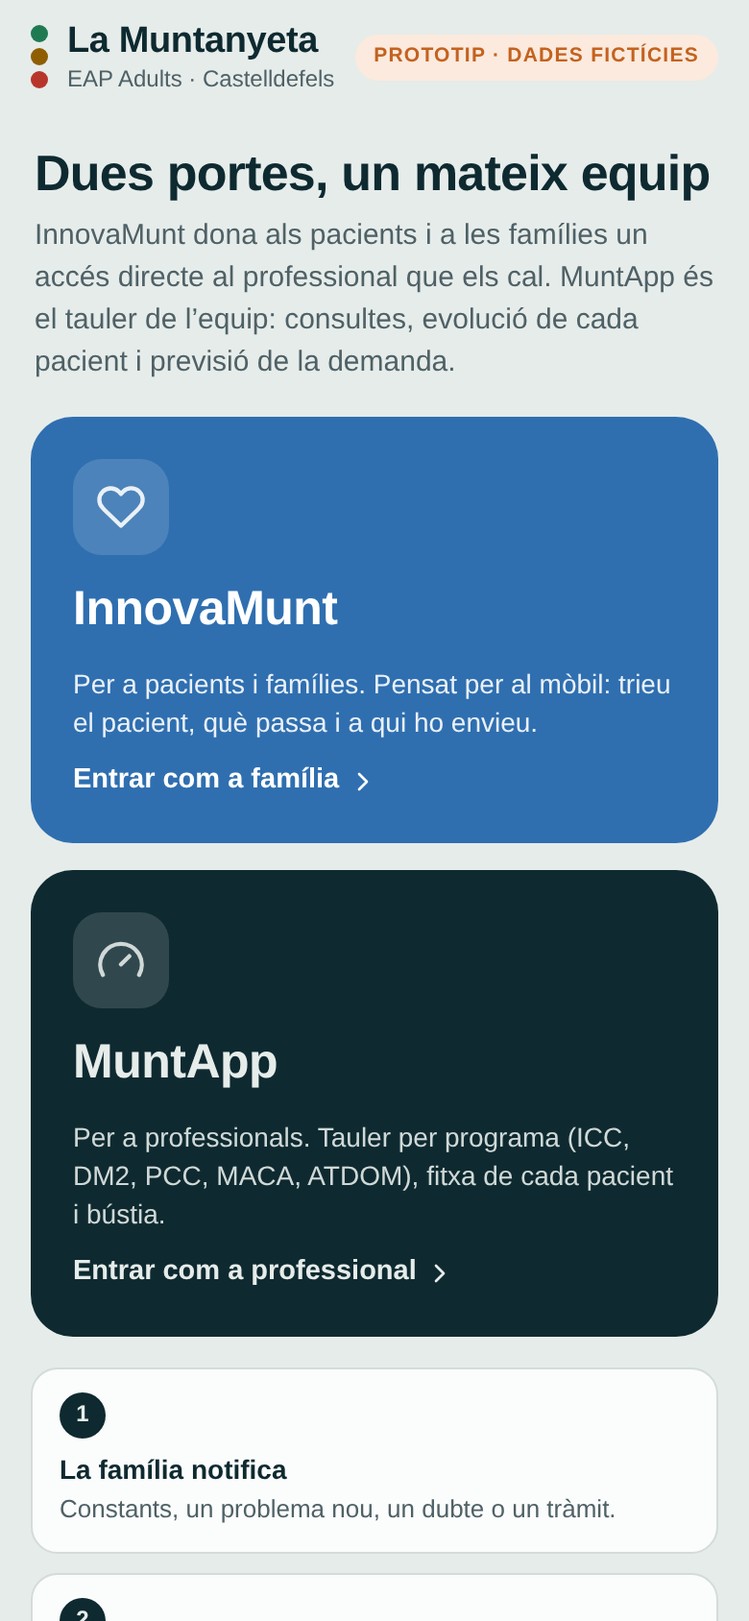
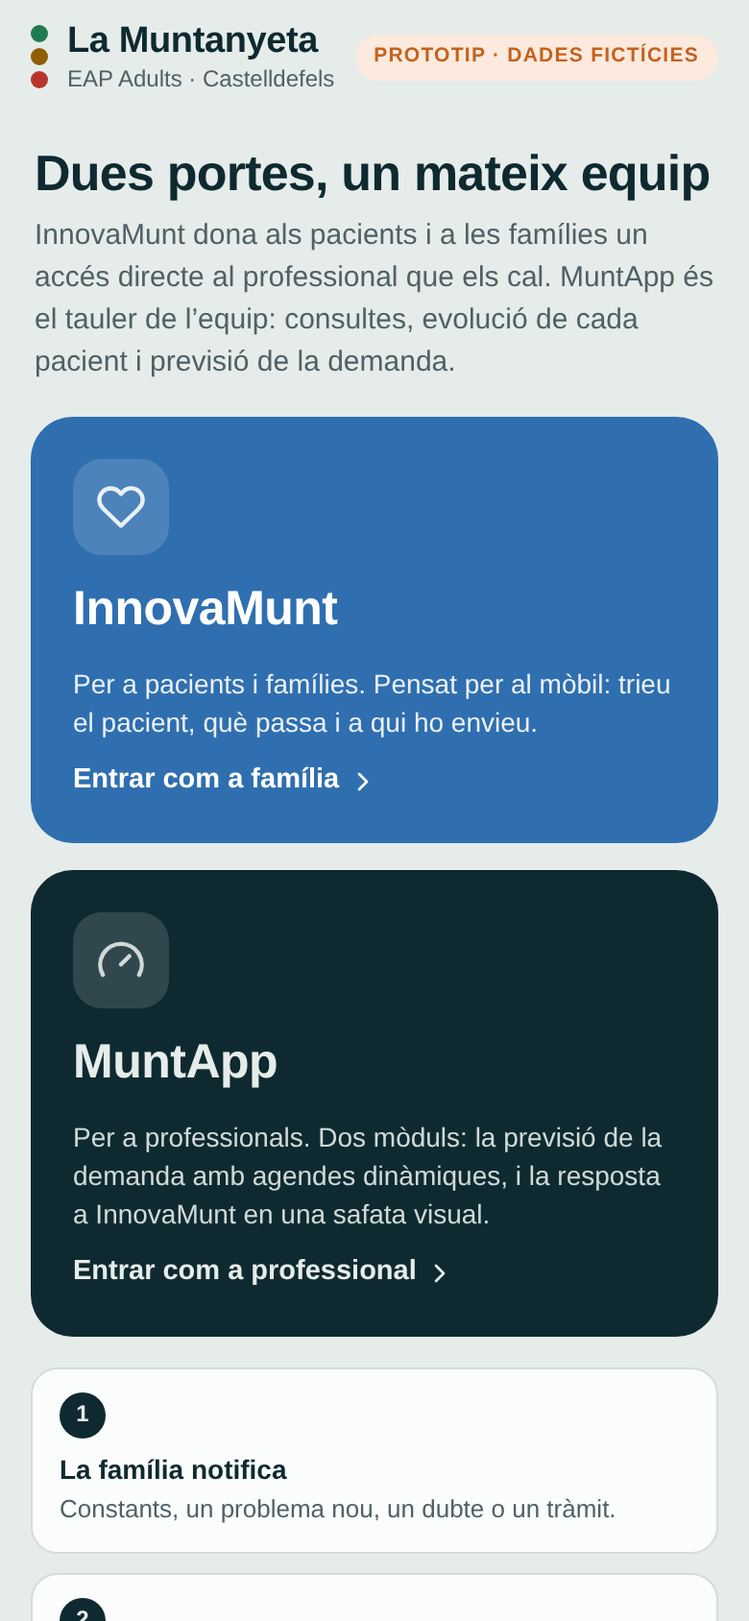
Add files via upload

Changed region(s): [[0.0923, 0.6777, 0.8923, 0.7701]]

diff --git a/index.html b/index.html
@@ -182,10 +182,10 @@ textarea{min-height:76px;resize:vertical}
 /* ===== MuntApp (responsive: phone ↔ desktop) ===== */
 .pro{display:grid;grid-template-columns:200px minmax(0,1fr);gap:18px;align-items:start}
 .pnav{position:sticky;top:12px;display:flex;flex-direction:column;gap:4px;background:var(--card);border:1px solid var(--line);border-radius:16px;padding:8px}
-.pnav button{display:flex;gap:10px;align-items:center;border:0;background:transparent;color:var(--muted);font-weight:600;font-size:14px;padding:10px 12px;border-radius:10px;text-align:left}
-.pnav button span{flex:1}
-.pnav button[aria-current="page"]{background:var(--ink);color:var(--bg)}
-.pnav button:hover:not([aria-current="page"]){background:var(--sunk);color:var(--ink)}
+.pnav>button{display:flex;gap:10px;align-items:center;border:0;background:transparent;color:var(--muted);font-weight:600;font-size:14px;padding:10px 12px;border-radius:10px;text-align:left}
+.pnav>button span{flex:1}
+.pnav>button[aria-current="page"]{background:var(--ink);color:var(--bg)}
+.pnav>button:hover:not([aria-current="page"]){background:var(--sunk);color:var(--ink)}
 .cnt{font-style:normal;font-size:11px;font-weight:700;background:var(--bad);color:#fff;border-radius:999px;padding:0 6px;line-height:18px;min-width:18px;text-align:center}
 .pmain{display:flex;flex-direction:column;gap:14px;min-width:0}
 .ptitle{display:flex;justify-content:space-between;align-items:baseline;gap:8px;flex-wrap:wrap}
@@ -324,9 +324,9 @@ td.n,th.n{text-align:right}td.tb{color:var(--bad);font-weight:700}td.ts{color:va
   .pro{grid-template-columns:minmax(0,1fr);gap:12px}
   .pnav{position:sticky;top:0;z-index:5;flex-direction:row;overflow-x:auto;padding:5px;gap:2px;scrollbar-width:none;border-radius:14px}
   .pnav::-webkit-scrollbar{display:none}
-  .pnav button{flex:1 0 auto;flex-direction:column;gap:2px;font-size:11.5px;padding:7px 10px;position:relative;align-items:center}
-  .pnav button span{flex:none}
-  .pnav .cnt{position:absolute;top:2px;right:4px;font-size:10px;line-height:15px;min-width:15px;padding:0 4px}
+  .pnav>button{flex:1 0 auto;flex-direction:column;gap:2px;font-size:11.5px;padding:7px 10px;position:relative;align-items:center}
+  .pnav>button span{flex:none}
+  .pnav>button .cnt{position:absolute;top:2px;right:4px;font-size:10px;line-height:15px;min-width:15px;padding:0 4px}
   .igrid,.dgrid2,.dgrid{grid-template-columns:minmax(0,1fr)}
   .kpis5{grid-template-columns:repeat(3,minmax(0,1fr))}
 }
@@ -341,8 +341,8 @@ td.n,th.n{text-align:right}td.tb{color:var(--bad);font-weight:700}td.ts{color:va
   .mgrid{grid-template-columns:minmax(0,1fr)}
   .pfil .sin{flex:1 1 100%}
   .cal{grid-template-columns:repeat(14,minmax(0,1fr));gap:3px}
-  .pnav button{flex:1 1 0;min-width:0;padding:7px 2px;font-size:10.5px}
-  .pnav button span{white-space:nowrap;overflow:hidden;text-overflow:ellipsis;max-width:100%}
+  .pnav>button{flex:1 1 0;min-width:0;padding:7px 2px;font-size:10.5px}
+  .pnav>button span{white-space:nowrap;overflow:hidden;text-overflow:ellipsis;max-width:100%}
   .ptitle h2{font-size:19px}
 }
 @media (max-width:380px){.grid3{grid-template-columns:repeat(2,minmax(0,1fr))}.tile.sq{min-height:132px;padding:13px}.prog em{display:none}}
@@ -444,6 +444,76 @@ b.tb{color:var(--bad)}
 .rbar{width:10px;height:38px;border-radius:5px;background:var(--sunk);display:flex;align-items:flex-end;overflow:hidden;flex:none;margin-top:2px}
 .rbar i{display:block;width:100%;background:var(--warn);border-radius:5px}
 @media (prefers-reduced-motion:reduce){.trk li.now i{animation:none}}
+/* modules */
+.pmods{display:flex;flex-direction:column;gap:6px;padding-bottom:8px;margin-bottom:6px;border-bottom:1px solid var(--line)}
+.pmod{display:flex;gap:10px;align-items:center;text-align:left;border:2px solid transparent;background:var(--sunk);border-radius:14px;padding:10px;font:inherit;position:relative}
+.pmod .pmi{width:38px;height:38px;border-radius:11px;display:grid;place-items:center;color:#fff;flex:none}
+.m-dem .pmi{background:var(--accent)}.m-inn .pmi{background:var(--warm)}
+.pmod .pmt{display:flex;flex-direction:column;min-width:0}.pmod b{font-size:14px;line-height:1.2}.pmod small{font-size:11.5px;color:var(--muted)}
+.pmod[aria-current="true"]{background:var(--card);border-color:var(--ink)}
+.pmod .cnt{position:absolute;top:6px;right:8px}
+.ptabs{display:flex;flex-direction:column;gap:4px}
+.ptabs button{display:flex;gap:10px;align-items:center;border:0;background:transparent;color:var(--muted);font-weight:600;font-size:14px;padding:9px 12px;border-radius:10px;text-align:left}
+.ptabs button span{flex:1}
+.ptabs button[aria-current="page"]{background:var(--ink);color:var(--bg)}
+.ptabs button:hover:not([aria-current="page"]){background:var(--sunk);color:var(--ink)}
+.pro{grid-template-columns:230px minmax(0,1fr)}
+/* safata kanban */
+.onlyme{display:flex;gap:8px;align-items:center;font-size:13.5px;font-weight:600;background:var(--card);border:1px solid var(--line);border-radius:12px;padding:8px 12px}
+.onlyme input{width:18px;height:18px;accent-color:var(--accent)}
+.kflow{display:flex;height:16px;border-radius:9px;overflow:hidden;background:var(--sunk);gap:2px}
+.kf.new{background:var(--warm)}.kf.curs{background:var(--accent)}.kf.fet{background:var(--ok)}
+.kfl{display:flex;gap:6px 16px;flex-wrap:wrap;align-items:center;font-size:13px;color:var(--muted);font-weight:600}
+.kfl i{display:inline-block;width:10px;height:10px;border-radius:3px;margin-right:5px;vertical-align:-1px}
+.kfl b{margin-left:auto;color:var(--ok);font-size:14px}
+.kchips{display:flex;gap:6px;flex-wrap:wrap}
+.kchip{display:inline-flex;gap:6px;align-items:center;border:1px solid var(--line);background:var(--card);border-radius:999px;padding:6px 12px 6px 8px;font-weight:600;font-size:13px}
+.kchip i{width:22px;height:22px;border-radius:50%;display:grid;place-items:center;background:var(--kc);color:#fff}
+.kchip small{font-family:var(--mono);opacity:.7}
+.kchip[aria-pressed="true"]{background:var(--ink);color:var(--bg);border-color:var(--ink)}
+.kseg{display:none}
+.kboard{display:grid;grid-template-columns:repeat(3,minmax(0,1fr));gap:14px;align-items:start}
+.kcol{background:var(--sunk);border-radius:18px;padding:10px;min-width:0;display:flex;flex-direction:column;gap:8px}
+.kcol header{display:flex;gap:8px;align-items:center;padding:4px 4px 2px}
+.kcol header h3{font-size:15px;flex:1}
+.kcol header em{font-style:normal;font-family:var(--mono);font-weight:700;font-size:15px}
+.kn{width:24px;height:24px;border-radius:50%;display:grid;place-items:center;color:#fff;font-size:12px;font-weight:700}
+.k-new .kn{background:var(--warm)}.k-curs .kn{background:var(--accent)}.k-fet .kn{background:var(--ok)}
+.klist{display:flex;flex-direction:column;gap:8px}
+.kc{background:var(--card);border-radius:14px;border:1px solid var(--line);box-shadow:inset 5px 0 0 var(--kc);display:flex;flex-direction:column;overflow:hidden}
+.kc.mine{border:2px solid var(--warm);box-shadow:inset 5px 0 0 var(--kc),0 0 0 3px var(--warm-soft)}
+.kc.fet{opacity:.75}
+.kmain{display:flex;gap:10px;align-items:flex-start;border:0;background:none;text-align:left;font:inherit;padding:11px 11px 8px 15px;width:100%}
+.kmain:hover{background:var(--sunk)}
+.kic{width:36px;height:36px;border-radius:50%;display:grid;place-items:center;color:#fff;background:var(--kc);flex:none}
+.kt{display:flex;flex-direction:column;gap:2px;min-width:0}
+.kl1{display:flex;gap:6px;align-items:center;flex-wrap:wrap}
+.kti{font-size:14.5px;line-height:1.25}
+.ksub{font-size:12.5px;color:var(--muted);line-height:1.3}
+.kwho{font-size:12px;font-weight:600;color:var(--ok);display:flex;gap:4px;align-items:center}
+.kbtn{margin:0 11px 11px 15px;border:1px solid var(--line);background:var(--surface);border-radius:10px;padding:9px;font-weight:700;font-size:13.5px;display:flex;gap:6px;align-items:center;justify-content:center}
+.kbtn.hot{background:var(--warm);border-color:var(--warm);color:#fff}
+.kbtn:not(.hot):hover{border-color:var(--accent);color:var(--accent)}
+@media (max-width:980px){
+  .pro{grid-template-columns:minmax(0,1fr)}
+  .pnav{flex-direction:column}
+  .pmods{flex-direction:row;padding-bottom:6px;margin-bottom:4px}
+  .pmod{flex:1;padding:8px}.pmod .pmi{width:30px;height:30px}.pmod small{display:none}.pmod b{font-size:12.5px}
+  .ptabs{flex-direction:row;overflow-x:auto;scrollbar-width:none}
+  .ptabs button{flex:1 0 auto;flex-direction:column;gap:2px;font-size:11.5px;padding:7px 10px;position:relative;align-items:center}
+  .ptabs button span{flex:none}
+  .ptabs .cnt{position:absolute;top:2px;right:4px;font-size:10px;line-height:15px;min-width:15px;padding:0 4px}
+  .kboard{grid-template-columns:minmax(0,1fr)}
+  .kcol:not(.on){display:none}
+  .kcol header{display:none}
+  .kseg{display:flex;gap:4px;background:var(--card);border:1px solid var(--line);border-radius:12px;padding:4px}
+  .kseg button{flex:1;border:0;background:transparent;border-radius:9px;padding:9px 4px;font-weight:700;font-size:13px;color:var(--muted)}
+  .kseg button[aria-pressed="true"]{background:var(--ink);color:var(--bg)}
+}
+@media (max-width:620px){.ptabs button{min-width:0;padding:7px 4px}.kfl b{margin-left:0;width:100%}}
+.kc{flex-direction:row;align-items:center}
+.kmain{flex:1;min-width:0}
+.kbtn{margin:8px 8px 8px 0;flex-direction:column;gap:2px;min-width:78px;font-size:12px;padding:8px 6px;align-self:center}
 </style>
 </head>
 <body>
@@ -879,6 +949,7 @@ function vDem(){
   function seg(labels,key){return'<div class="seg2">'+labels.map(function(t,i){return'<button type="button" data-dk="'+key+'" data-di="'+i+'" aria-pressed="'+(dm[key]===i)+'">'+t+'</button>'}).join("")+'</div>'}
   var h='<div class="ctrls"><div class="ctl"><span class="lbl">Dia</span>'+seg(DD,"day")+'</div><div class="ctl"><span class="lbl">Tall eCAP</span>'+seg(["14:00","19:45"],"cut")+'</div><div class="ctl"><span class="lbl">Escenari</span>'+seg(["Normal","Pic de grip"],"scen")+'</div>'+
     '<div class="ctl"><label class="lbl" for="dAbs">UBA absent</label><select id="dAbs"><option value="-1">Cap</option>'+[0,1,2,3,4,5,6,7,8,9].map(function(i){return'<option value="'+i+'"'+(dm.abs===i?" selected":"")+'>UBA '+(i+1)+'</option>'}).join("")+'</select></div></div>';
+  if(ui.mun.tab==="bucle")return h+'<div class="dgrid"><div style="display:flex;flex-direction:column;gap:12px">'+vRecs(u,"loop")+'</div><div style="display:flex;flex-direction:column;gap:12px">'+vTrend()+'</div></div>';
   var fv=act.reduce(function(s,x){return s+Math.max(0,x.mfFree)+Math.max(0,x.inFree)},0),mn=act.reduce(function(s,x){return s+x.min},0),red=u.filter(function(x){return x.st==="bad"}).length,forced=u.reduce(function(s,x){return s+x.forced},0);
   var mape=IDX.reduce(function(s,v,i){return s+Math.abs(REAL[i]-v)/REAL[i]},0)/5*100;
   h+='<div class="kpis"><div class="kpi"><b>'+fv+'</b><span>visites lliures a l’equip</span></div><div class="kpi"><b>'+mn+'</b><span>minuts d’agenda lliures</span></div><div class="kpi k-bad"><b>'+red+'/10</b><span>UBA en vermell · '+forced+(forced===1?" forçada":" forçades")+'</span></div><div class="kpi"><b>'+fmt(mape.toFixed(1))+'%</b><span>error de previsió (meta ≤ 10%)</span></div></div>';
@@ -895,7 +966,7 @@ function vDem(){
       h+='</button>'});
     h+='</div>'});
   h+='<p class="note">Blau: espontània · fosc: programades · clar: visites curtes · ratllat: suport. Línia contínua 100%, discontínua 85%. Toqueu una UBA per veure l’ordre de suport.</p></div><div style="display:flex;flex-direction:column;gap:12px">';
-  h+=vRecs(u)+vTrend();
+  h+=vRecs(u,"cut");
   var W=460,Hh=200,Lf=40,Rr=10,T=26,B=28,pw=W-Lf-Rr,ph=Hh-T-B,mx=1.4,y=function(v){return T+ph-(v/mx)*ph},g="",bw=pw/5,pts=[];
   [0,0.5,1,1.4].forEach(function(v){g+='<line x1="'+Lf+'" x2="'+(W-Rr)+'" y1="'+y(v)+'" y2="'+y(v)+'" stroke="var(--line)"/><text x="'+(Lf-6)+'" y="'+(y(v)+4)+'" text-anchor="end" font-size="11" fill="var(--muted)">'+Math.round(v*100)+'%</text>'});
   g+='<line x1="'+Lf+'" x2="'+(W-Rr)+'" y1="'+y(1.1)+'" y2="'+y(1.1)+'" stroke="var(--warm)" stroke-dasharray="5 4"/><text x="'+(W-Rr)+'" y="'+(y(1.1)-5)+'" text-anchor="end" font-size="11" fill="var(--warm)" font-weight="600">pic ≥ 110%</text>';
@@ -916,9 +987,10 @@ function occAt(i,d,noAdj){var u=demCompute(d,noAdj);return u[i].occ}
 function teamOcc(d){var u=demCompute(d).filter(function(x){return!x.absent});return u.reduce(function(s,x){return s+x.occ},0)/u.length}
 function lowDay(ex){var lo=-1,lv=999;for(var d=0;d<5;d++){if(d===ex)continue;var v=teamOcc(d);if(v<lv){lv=v;lo=d}}return lo}
 function rItem(lvl,txt,btn){return'<li class="'+lvl+'"><span>'+txt+'</span>'+(btn||'')+'</li>'}
-function vRecs(u){
-  var dm=ui.dm,d=dm.day,h='<div class="card recs"><div class="sech"><h3>Indicacions de MuntApp</h3><span class="note">es recalculen a cada tall</span></div>';
+function vRecs(u,mode){
+  var dm=ui.dm,d=dm.day,h='<div class="card recs"><div class="sech"><h3>'+(mode==="loop"?"Bucle d’ajust":"Indicacions del tall")+'</h3><span class="note">'+(mode==="loop"?"es retroalimenta amb cada tall":"es recalculen a cada tall")+'</span></div>';
   var worst=u.filter(function(x){return!x.absent}).sort(function(a,b){return b.occ-a.occ})[0],g1=Math.round((REAL[d]/histIdx(1,d)-1)*100);
+  if(mode!=="loop"){
   /* 1 · cut */
   var L=[];
   if(!dm.cut){
@@ -936,6 +1008,8 @@ function vRecs(u){
   if(dm.scen===1)L.push(rItem("info","SIVIC per sobre del llindar: reforç PIUC per a l’alarma i les visites curtes, i contacte amb IC i MPOC d’alt risc."));
   if(dm.abs>=0)L.push(rItem("warn","UBA "+(dm.abs+1)+" absent: la seva demanda es reparteix al microequip."));
   h+='<div class="rsec"><div class="rh"><span class="rk">1</span><b>'+(dm.cut?"Final del dia · 19:45":"Mig tall · 14:00")+'</b><em>'+DN[d]+'</em></div><ul class="rl">'+L.join("")+'</ul></div>';
+  }
+  if(mode!=="cut"){
   /* 2 · two weeks */
   var B=[];for(var x=0;x<5;x++){var c=chg(x,2,2),tp=dm.tpl[x]||0;
     if(c>=5)B.push(rItem("warn","<b>"+DN[x]+" +"+c+"%</b> en 2 setmanes → plantilla: <b>−2 crònics i +2 forats del mateix dia</b> per UBA."+(tp?" ✓ Recalibrada.":""),tp?'':'<button type="button" class="rbtn" data-tpl="'+x+'|-2">Recalibrar</button>'));
@@ -947,8 +1021,9 @@ function vRecs(u){
   M.push(rItem(m>3?"warn":m<-3?"ok":"info","Demanda de l’equip en 4 setmanes: <b>"+(m>0?"+":"")+m+"%</b>. "+(m>3?"Consolidar els ajustos a la plantilla i revisar-ho a la reunió d’equip (PDCA).":m<-3?"Hi ha marge: recuperar la programació de crònics i activitats preventives.":"Estable: es mantenen les plantilles.")));
   M.push(rItem("info","Error de previsió del mes (MAPE): <b>"+fmt((IDX.reduce(function(s,v,i){return s+Math.abs(REAL[i]-v)/REAL[i]},0)/5*100).toFixed(1))+"%</b> · meta ≤ 10%."));
   h+='<div class="rsec"><div class="rh"><span class="rk">3</span><b>Cada mes · revisió amb l’equip</b></div><ul class="rl">'+M.join("")+'</ul></div>';
+  }
   if(dm.log.length)h+='<div class="rsec"><div class="rh"><span class="rk">✓</span><b>Ajustos aplicats i efecte</b></div><ul class="rl">'+dm.log.map(function(x){return rItem("ok",x,'<button type="button" class="rbtn sec" data-undo="'+dm.log.indexOf(x)+'">Desfer</button>')}).join("")+'</ul></div>';
-  return h+'<p class="note">El tall següent mesura l’efecte de cada ajust i el bucle torna a començar.</p></div>';
+  return h+(mode==="cut"?'<button type="button" class="link" data-tab="bucle">Bucle d’ajust: plantilla cada 2 setmanes i revisió mensual →</button>':'<p class="note">El tall següent mesura l’efecte de cada ajust i el bucle torna a començar.</p>')+'</div>';
 }
 function demAdj(i,d,lo){var dm=ui.dm,b=occAt(i,d),b2=occAt(i,lo);dm.adj[i+"-"+d]=(dm.adj[i+"-"+d]||0)-3;dm.adj[i+"-"+lo]=(dm.adj[i+"-"+lo]||0)+3;
   dm.log.push("UBA "+(i+1)+": 3 crònics del "+DN[d].toLowerCase()+" al "+DN[lo].toLowerCase()+" · "+DN[d].toLowerCase()+" "+b+"% → "+occAt(i,d)+"%, "+DN[lo].toLowerCase()+" "+b2+"% → "+occAt(i,lo)+"%");
@@ -1007,36 +1082,48 @@ function escLine(m,now){
   return'<span class="esc">'+a+'<i>›</i>'+b+'<i>›</i>'+c+'</span>';
 }
 function meSel(){var me=ui.mun.me;return'<label class="mesel">'+ico("users",16)+'<span>Veure com a</span><select id="meSel"><option value="0"'+(!me?" selected":"")+'>Tot l’equip</option>'+[1,2,3,4,5,6,7,8,9,10].map(function(u){return'<option value="'+u+'"'+(me===u?" selected":"")+'>Infermeria UBA '+u+(avail(u)?'':' (no disponible)')+'</option>'}).join("")+'</select></label>'}
-function vIni(){
-  var now=Date.now(),M=ui.mun,T=todayLists(now),f=M.f||"tot";
-  function tile(k,n,l,c,ic){return'<button type="button" class="ttile '+c+'" data-tf="'+k+'" aria-pressed="'+(f===k)+'"><span class="tic">'+ico(ic,22)+'</span><b>'+n+'</b><span>'+l+'</span></button>'}
-  var me=M.me,sup=me?T.pm.filter(function(m){var e=escInfo(m,now);return e&&!e.ack&&e.u!==me&&forMe(m,me,now)}):[],unack=T.pm.filter(function(m){var e=escInfo(m,now);return e&&!e.ack});
-  var h='<div class="ttop">'+meSel()+'<span class="note">Disponibles ara: '+[1,2,3,4,5,6,7,8,9,10].filter(avail).length+' de 10 infermeres</span></div>';
-  if(sup.length)h+='<button type="button" class="sban" data-tf="pet"><span class="sbi">'+ico("bell",22)+'</span><span><b>'+sup.length+(sup.length>1?" peticions":" petició")+' amb signes d’alarma de companyes no disponibles</b><br>Et toca com a '+(sup.some(function(m){return escInfo(m,now).mir===me})?"UBA mirall":"microequip")+'. Assumeix-la perquè no quedi sense atendre.</span>'+ico("chev",18)+'</button>';
-  else if(!me&&unack.length)h+='<button type="button" class="sban" data-tf="pet"><span class="sbi">'+ico("bell",22)+'</span><span><b>'+unack.length+(unack.length>1?" peticions":" petició")+' amb signes d’alarma encara sense assumir</b><br>Avisades la infermera referent, la UBA mirall i, passats '+ESC_MIN+' min, el microequip.</span>'+ico("chev",18)+'</button>';
-  h+='<div class="ttiles">'+tile("pet",T.pm.length,T.pm.length===1?"petició nova":"peticions noves","t-acc","doc")+tile("al",T.al.length,T.al.length===1?"alerta de constants":"alertes de constants","t-bad","alert")+tile("sil",T.sil.length,"sense seguiment","t-sil","phone")+'</div>';
-  if(f!=="tot")h+='<button type="button" class="link" data-tf="tot">'+ico("back",16)+' Veure-ho tot</button>';
-  var cols='';
-  if(f==="tot"||f==="pet"){
-    var L=T.pm.map(function(m){var p=S.patients[m.code];return tRow({c:m.crit?"bad":m.prio==="alta"?"bad":"acc",code:m.code,prog:p.prog,badge:m.crit?"Urgent":m.prio==="alta"?"Alta":"",what:m.title+(m.signs&&m.signs.length?" · "+m.signs.length+(m.signs.length>1?" signes":" signe")+" d’alarma":""),meta:KIND[m.kind]+" · "+ago(m.t,now)+" · per a "+destName(m.to,p.uba),mine:forMe(m,ui.mun.me,now),esc:escLine(m,now),act:(function(){var e=escInfo(m,now);return e&&!e.ack?'<button type="button" class="tact hot" data-ack="'+m.id+'">'+ico("bell",16)+'<span>Assumir</span></button>':'<button type="button" class="tact" data-ma="done" data-id="'+m.id+'">'+ico("check",16)+'<span>Resolt</span></button>'})()})}).join("");
-    cols+='<section class="tcol"><header><span class="th acc">'+ico("doc",16)+'</span><h3>Peticions de les famílies</h3><em>'+T.pm.length+'</em></header>'+(L||'<p class="tempty">'+ico("check",16)+' Cap petició pendent</p>')+'</section>';
-  }
-  if(f==="tot"||f==="al"){
-    var L2=T.al.map(function(r){return tRow({c:r.s.st==="bad"?"bad":"warn",code:r.p.code,prog:r.p.prog,badge:"",what:r.s.ev.why.join(" · "),meta:"Registre "+ago(r.s.last.t,now)+" · Infermeria UBA "+r.p.uba,act:'<button type="button" class="tact" data-rev="'+r.p.code+'" data-note="Alerta revisada">'+ico("check",16)+'<span>Revisat</span></button>'})}).join("");
-    cols+='<section class="tcol"><header><span class="th bad">'+ico("alert",16)+'</span><h3>Alertes de constants</h3><em>'+T.al.length+'</em></header>'+(L2||'<p class="tempty">'+ico("check",16)+' Cap alerta pendent</p>')+'</section>';
-  }
-  if(f==="tot"||f==="sil"){
-    var L3=T.sil.map(function(r){var g=PROG[r.p.prog],rem=r.s.last.t+g.freq*1.5*D,late=now-rem>24*H;return tRow({c:"sil",code:r.p.code,prog:r.p.prog,badge:"",what:"Fa "+r.s.silentDays+" dies que no registra (cada "+(g.freq===1?"dia":g.freq+" dies")+")",meta:"Recordatori automàtic enviat "+ago(rem,now)+(late?" · sense resposta: cal trucar":"")+" · "+r.p.carer,act:'<button type="button" class="tact" data-rev="'+r.p.code+'" data-note="Trucada a la família">'+ico("phone",16)+'<span>He trucat</span></button>'})}).join("");
-    cols+='<section class="tcol"><header><span class="th sil">'+ico("phone",16)+'</span><h3>Sense seguiment</h3><em>'+T.sil.length+'</em></header>'+(L3||'<p class="tempty">'+ico("check",16)+' Totes les famílies registren</p>')+'</section>';
-  }
-  if(f==="tot"){var RK=T.R.filter(function(r){return!r.s.pending&&r.s.st!=="silence"}).map(function(r){return{r:r,k:riskOf(r.p,r.it,now)}}).filter(function(x){return x.k.score>=2}).sort(function(a,b){return b.k.score-a.k.score});
-    if(RK.length)h+='<section class="risk"><header><span class="th rk2">'+ico("sparkle",16)+'</span><div><h3>Abans de l’alerta · risc creixent</h3><p class="note">Tendència recent: encara dins de rang, però s’hi acosta</p></div></header>'+RK.map(function(x){var r=x.r,sc=Math.min(5,x.k.score);return'<div class="trow"><button type="button" class="tmain" data-pat="'+r.p.code+'"><span class="rbar"><i style="height:'+(sc*20)+'%"></i></span><span class="tt"><span class="tl1"><b class="mono">'+r.p.code+'</b>'+pchip(r.p.prog)+'<span class="pill warn">Risc '+sc+'/5</span></span><span class="tl2">'+esc(x.k.why.join(" · "))+'</span><span class="tl3">Trucada preventiva abans que descompensi · Infermeria UBA '+r.p.uba+'</span></span></button><button type="button" class="tact" data-rev="'+r.p.code+'" data-note="Trucada preventiva programada">'+ico("phone",16)+'<span>Programar trucada</span></button></div>'}).join("")+'</section>';}
-  h+='<div class="tcols'+(f!=="tot"?" one":"")+'">'+cols+'</div>';
-  var done=S.msgs.filter(function(m){return m.status==="atès"}).sort(function(a,b){return b.t-a.t});
-  h+='<div class="tfoot"><span>'+ico("check",16)+' <b>'+T.ok+'</b> de '+T.R.length+' pacients sense res pendent</span><button type="button" class="link" data-hist="1">'+(M.hist?"Amagar":"Veure")+' peticions ateses ('+done.length+')</button></div>';
-  if(M.hist)h+='<div class="clist">'+done.map(function(m){var p=S.patients[m.code];return'<button type="button" class="crow done" data-pat="'+m.code+'"><span class="pic sm" style="background:'+PROG[p.prog].c+'">'+ico(PICON[p.prog],15)+'</span><span class="tt"><b>'+esc(m.title)+'</b><span><span class="mono">'+m.code+'</span> · '+ago(m.t,now)+' · '+esc(m.log[m.log.length-1])+'</span></span></button>'}).join("")+'</div>';
+/* ---------- Safata: one visual flow  Per assumir → En curs → Fet ---------- */
+var TYP={alarma:{n:"Signes d’alarma",ic:"bell",c:"var(--bad)"},prob:{n:"Consultes",ic:"doc",c:"var(--accent)"},"const":{n:"Constants",ic:"gauge",c:"var(--warm)"},sil:{n:"Sense seguiment",ic:"phone",c:"var(--sil)"},risk:{n:"Risc creixent",ic:"sparkle",c:"var(--warn)"},tram:{n:"Tràmits i medicació",ic:"pill",c:"var(--muted)"}};
+function safItems(now){
+  var R=rows(now),out=[],day=24*H;
+  S.msgs.forEach(function(m){var p=S.patients[m.code],t=m.kind==="prob"&&m.signs&&m.signs.length?"alarma":m.kind==="const"?"const":m.kind==="prob"?"prob":"tram";
+    var st=m.status==="nou"?(m.ack?"curs":"new"):(m.doneT&&now-m.doneT<day?"fet":null);if(!st)return;
+    out.push({k:"m"+m.id,src:"msg",m:m,code:m.code,prog:p.prog,uba:p.uba,typ:t,st:st,t:m.t,urg:m.crit?0:m.prio==="alta"?1:2,
+      title:m.title,sub:(m.signs&&m.signs.length?m.signs.join(" · "):KIND[m.kind])+" · "+ago(m.t,now),
+      who:m.ack?m.ack.by:(m.status==="atès"?m.log[m.log.length-1]:"")})});
+  R.forEach(function(r){var p=r.p,s=r.s,tk=S.task[p.code];
+    if(s.pending&&(s.st==="bad"||s.st==="warn"))out.push({k:"a"+p.code,src:"pat",code:p.code,prog:p.prog,uba:p.uba,typ:"const",st:tk?"curs":"new",t:s.last.t,urg:s.st==="bad"?1:2,title:s.ev.why[0],sub:(s.ev.why.slice(1).join(" · ")||"Alerta de constants")+" · "+ago(s.last.t,now),note:"Alerta revisada",who:tk?tk.by:""});
+    else if(s.pending&&s.st==="silence"){var g=PROG[p.prog];out.push({k:"s"+p.code,src:"pat",code:p.code,prog:p.prog,uba:p.uba,typ:"sil",st:tk?"curs":"new",t:s.last.t,urg:2,title:"Fa "+s.silentDays+" dies que no registra",sub:"Recordatori enviat · "+(now-(s.last.t+g.freq*1.5*D)>day?"cal trucar":"esperant resposta")+" · "+p.carer,note:"Trucada a la família",who:tk?tk.by:""})}
+    else if(!s.pending&&s.st!=="silence"&&!(p.reviewedAt&&now-p.reviewedAt<day)){var rk=riskOf(p,r.it,now);if(rk.score>=2)out.push({k:"r"+p.code,src:"pat",code:p.code,prog:p.prog,uba:p.uba,typ:"risk",st:tk?"curs":"new",t:now,urg:3,title:"Risc "+Math.min(5,rk.score)+"/5 · abans de l’alerta",sub:rk.why.join(" · "),note:"Trucada preventiva programada",who:tk?tk.by:""})}
+    if(p.reviewedAt&&now-p.reviewedAt<day)out.push({k:"f"+p.code,src:"pat",code:p.code,prog:p.prog,uba:p.uba,typ:/Trucada a la/.test(p.reviewNote)?"sil":/preventiva/.test(p.reviewNote)?"risk":"const",st:"fet",t:p.reviewedAt,urg:3,title:p.reviewNote,sub:ago(p.reviewedAt,now),who:p.reviewedBy})});
+  return out;
+}
+function kCard(x,now){
+  var T=TYP[x.typ],me=ui.mun.me,mine=!ui.mun.onlyMe&&(x.src==="msg"?forMe(x.m,me,now):(me&&x.uba===me)),act="";
+  if(x.st==="new")act=x.src==="msg"?'<button type="button" class="kbtn hot" data-ack="'+x.m.id+'">'+ico("bell",16)+' Assumir</button>':'<button type="button" class="kbtn hot" data-take="'+x.code+'">'+ico(x.typ==="const"?"check":"phone",16)+' Assumir</button>';
+  else if(x.st==="curs")act=x.src==="msg"?'<button type="button" class="kbtn" data-ma="done" data-id="'+x.m.id+'">'+ico("check",16)+' Resolt</button>':'<button type="button" class="kbtn" data-rev="'+x.code+'" data-note="'+x.note+'">'+ico(x.typ==="const"?"check":"phone",16)+' '+(x.typ==="const"?"Revisat":"He trucat")+'</button>';
+  var chain=x.st==="new"&&x.src==="msg"?escLine(x.m,now):"";
+  return'<div class="kc '+x.st+(mine&&x.st!=="fet"?" mine":"")+'" style="--kc:'+T.c+'"><button type="button" class="kmain" data-pat="'+x.code+'"><span class="kic">'+ico(T.ic,20)+'</span><span class="kt"><span class="kl1"><b class="mono">'+x.code+'</b>'+pchip(x.prog)+(x.urg===0?'<span class="pill alta">Urgent</span>':'')+(mine&&x.st!=="fet"?'<span class="pill mine">Et toca</span>':'')+'</span><b class="kti">'+esc(x.title)+'</b><span class="ksub">'+esc(x.sub)+'</span>'+(x.who&&x.st!=="new"?'<span class="kwho">'+ico("check",12)+' '+esc(x.who)+'</span>':'')+chain+'</span></button>'+act+'</div>';
+}
+function vSaf(){
+  var now=Date.now(),M=ui.mun,me=M.me,all=safItems(now),f=M.kf||"tot",col=M.kcol||"new";
+  var mineF=function(x){return!me||(x.src==="msg"?forMe(x.m,me,now)||x.uba===me:x.uba===me)};
+  var B=all.filter(function(x){return M.onlyMe?mineF(x):true}),L=B.filter(function(x){return f==="tot"||x.typ===f});
+  var cnt=function(st){return L.filter(function(x){return x.st===st}).length};
+  var nN=cnt("new"),nC=cnt("curs"),nF=cnt("fet"),tot=nN+nC+nF||1;
+  var sup=me?all.filter(function(x){return x.src==="msg"&&x.st==="new"&&x.uba!==me&&forMe(x.m,me,now)}):[];
+  var h='<div class="ttop">'+meSel()+'<label class="onlyme"><input type="checkbox" id="onlyMe"'+(M.onlyMe?" checked":"")+'> Només el que em toca</label></div>';
+  if(sup.length)h+='<button type="button" class="sban" data-kcol="new"><span class="sbi">'+ico("bell",22)+'</span><span><b>'+sup.length+(sup.length>1?" peticions":" petició")+' amb signes d’alarma de companyes no disponibles</b><br>Et toca com a UBA mirall o microequip. Assumeix-la perquè no quedi sense atendre.</span>'+ico("chev",18)+'</button>';
+  h+='<div class="kflow" role="img" aria-label="'+nN+' per assumir, '+nC+' en curs, '+nF+' fets avui"><span class="kf new" style="flex:'+nN+'"></span><span class="kf curs" style="flex:'+nC+'"></span><span class="kf fet" style="flex:'+nF+'"></span></div>';
+  h+='<div class="kfl"><span><i class="kf new"></i>'+nN+' per assumir</span><span><i class="kf curs"></i>'+nC+' en curs</span><span><i class="kf fet"></i>'+nF+' fets avui</span><b>'+Math.round(nF/tot*100)+'% del dia resolt</b></div>';
+  h+='<div class="kchips">'+[["tot","Tot",""]].concat(Object.keys(TYP).map(function(k){return[k,TYP[k].n,TYP[k].ic]})).map(function(c){var n=c[0]==="tot"?B.filter(function(x){return x.st!=="fet"}).length:B.filter(function(x){return x.typ===c[0]&&x.st!=="fet"}).length;if(c[0]!=="tot"&&!n&&f!==c[0])return"";return'<button type="button" class="kchip" data-kf="'+c[0]+'" aria-pressed="'+(f===c[0])+'"'+(c[2]?' style="--kc:'+TYP[c[0]].c+'"':'')+'>'+(c[2]?'<i>'+ico(c[2],14)+'</i>':'')+c[1]+' <small>'+n+'</small></button>'}).join("")+'</div>';
+  var C=[["new","Per assumir",nN,"bell"],["curs","En curs",nC,"phone"],["fet","Fet avui",nF,"check"]];
+  h+='<div class="kseg">'+C.map(function(c){return'<button type="button" data-kcol="'+c[0]+'" aria-pressed="'+(col===c[0])+'">'+c[1]+' <b>'+c[2]+'</b></button>'}).join("")+'</div>';
+  h+='<div class="kboard">'+C.map(function(c,i){var items=L.filter(function(x){return x.st===c[0]}).sort(function(a,b){return(a.urg-b.urg)||(b.t-a.t)});
+    return'<section class="kcol k-'+c[0]+(col===c[0]?" on":"")+'"><header><span class="kn">'+(i+1)+'</span><h3>'+c[1]+'</h3><em>'+c[2]+'</em></header><div class="klist">'+(items.length?items.map(function(x){return kCard(x,now)}).join(""):'<p class="tempty">'+ico("check",16)+(c[0]==="new"?" Res per assumir":c[0]==="curs"?" Res en curs":" Encara res avui")+'</p>')+'</div></section>'}).join("")+'</div>';
   return h;
 }
+function takeTask(code){var me=ui.mun.me,p=S.patients[code];S.task[code]={by:"Infermeria UBA "+(me||p.uba),t:Date.now()};toast("Assumit: passa a «En curs»");render()}
 function vUBA(R,now){
   var Nn={};R.forEach(function(r){var k=r.p.uba;Nn[k]=Nn[k]||{n:0,al:0,sil:0,rev:0};var o=Nn[k];o.n++;if(r.s.pending&&r.s.st!=="silence")o.al++;if(r.s.pending&&r.s.st==="silence")o.sil++;if(r.p.reviewedAt&&now-r.p.reviewedAt<24*H)o.rev++});
   return'<div class="card"><div class="sech"><h3>Per infermera referent</h3></div><div style="overflow-x:auto"><table><thead><tr><th>UBA</th><th class="n">Pacients</th><th class="n">Alertes</th><th class="n">Silencis</th><th class="n">Revisats</th></tr></thead><tbody>'+
@@ -1129,13 +1216,13 @@ function vBus(){
 }
 function msgAct(id,a,to){
   var m=S.msgs.filter(function(x){return x.id===id})[0];if(!m)return;var p=S.patients[m.code],hh=new Date().toLocaleTimeString("ca",{hour:"2-digit",minute:"2-digit"});
-  if(a==="call"){m.status="atès";m.log.push(destName(m.to,p.uba)+" · trucada feta a les "+hh);toast("Trucada registrada")}
-  else if(a==="done"){m.status="atès";m.log.push(destName(m.to,p.uba)+" · resolt a les "+hh);toast("Marcat com a resolt")}
+  if(a==="call"){m.status="atès";m.doneT=Date.now();m.log.push(destName(m.to,p.uba)+" · trucada feta a les "+hh);toast("Trucada registrada")}
+  else if(a==="done"){m.status="atès";m.doneT=Date.now();m.log.push(destName(m.to,p.uba)+" · resolt a les "+hh);toast("Marcat com a resolt")}
   else{var from=destName(m.to,p.uba);m.to=to;m.log.push(from+" → "+destName(to,p.uba)+" · passat directament");toast("Passat a "+destName(to,p.uba))}
   render();
 }
 function ackMsg(id){var m=S.msgs.filter(function(x){return x.id===id})[0];if(!m)return;var me=ui.mun.me,p=S.patients[m.code],by="Infermeria UBA "+(me||p.uba);m.ack={by:by,t:Date.now()};m.log.push(by+" l’ha assumit");toast("Assumit per "+by+": la resta de l’equip ja no rep l’avís");render()}
-function review(code,note){var p=S.patients[code];p.reviewedAt=Date.now();p.reviewedBy="Infermeria UBA "+p.uba;p.reviewNote=note;toast(code+": "+note.toLowerCase());render()}
+function review(code,note){delete S.task[code];var p=S.patients[code];p.reviewedAt=Date.now();p.reviewedBy="Infermeria UBA "+p.uba;p.reviewNote=note;toast(code+": "+note.toLowerCase());render()}
 
 /* ---------- Motius IA ---------- */
 function freeStats(){
@@ -1198,18 +1285,19 @@ function vRec(){
 
 /* ---------- shell ---------- */
 function vMun(){
-  var M=ui.mun,pm=pendingMsgs().length,pr=proposals().length;
-  var td=todayLists(Date.now()),nt=td.pm.length+td.al.length+td.sil.length;var T=[["ini","Avui","alert",nt],["pac","Pacients","users",0],["dem","Previsió","bolt",0],["ia","Motius IA","sparkle",pr],["rec","Recerca","search",0]];
-  var cur=M.pat?"pac":M.tab;
-  var nav='<nav class="pnav" aria-label="Seccions">'+T.map(function(t){return'<button type="button" data-tab="'+t[0]+'" aria-current="'+(cur===t[0]?"page":"false")+'">'+ico(t[2],18)+'<span>'+t[1]+'</span>'+(t[3]?'<em class="cnt">'+t[3]+'</em>':'')+'</button>'}).join("")+'</nav>';
-  var title=M.pat?"Fitxa del pacient":{ini:"Què cal fer avui",pac:"Pacients en seguiment",bus:"Bústia de consultes",dem:"Previsió de la demanda",ia:"Motius detectats per l’assistent",rec:"Recerca de l’equip"}[M.tab];
-  var body=M.pat?vPat(M.pat):M.tab==="ini"?vIni():M.tab==="pac"?vPac():M.tab==="dem"?vDem():M.tab==="ia"?vIA():vRec();
-  return'<div class="pro">'+nav+'<section class="pmain"><div class="ptitle"><h2>'+title+'</h2><span class="note">Microequip A i B · '+new Date().toLocaleDateString("ca",{weekday:"long",day:"numeric",month:"long"})+'</span></div>'+body+'</section></div>';
+  var M=ui.mun,pr=proposals().length,now=Date.now(),open=safItems(now).filter(function(x){return x.st==="new"}).length;
+  var MODS={dem:{n:"Previsió de la demanda",d:"Eix principal · agendes",ic:"gauge",tabs:[["agd","Agendes del dia","gauge",0],["bucle","Bucle d’ajust","sparkle",0]]},
+    inn:{n:"Resposta InnovaMunt",d:"Peticions i seguiment",ic:"heart",tabs:[["saf","Safata","doc",open],["pac","Pacients","users",0],["ia","Motius IA","sparkle",pr],["rec","Recerca","search",0]]}};
+  var mod=M.mod,cur=M.pat?"pac":M.tab,md=MODS[mod];
+  var nav='<nav class="pnav" aria-label="Seccions"><div class="pmods">'+Object.keys(MODS).map(function(k){var o=MODS[k],n=k==="inn"?open:0;return'<button type="button" class="pmod m-'+k+'" data-mod="'+k+'" aria-current="'+(mod===k?"true":"false")+'"><span class="pmi">'+ico(o.ic,20)+'</span><span class="pmt"><b>'+o.n+'</b><small>'+o.d+'</small></span>'+(n?'<em class="cnt">'+n+'</em>':'')+'</button>'}).join("")+'</div><div class="ptabs">'+md.tabs.map(function(t){return'<button type="button" data-tab="'+t[0]+'" aria-current="'+(cur===t[0]?"page":"false")+'">'+ico(t[2],18)+'<span>'+t[1]+'</span>'+(t[3]?'<em class="cnt">'+t[3]+'</em>':'')+'</button>'}).join("")+'</div></nav>';
+  var title=M.pat?"Fitxa del pacient":{agd:"Agendes del dia",bucle:"Bucle d’ajust de les agendes",saf:"Safata de peticions i seguiment",pac:"Pacients en seguiment",ia:"Motius detectats per l’assistent",rec:"Recerca de l’equip"}[M.tab];
+  var body=M.pat?vPat(M.pat):M.tab==="saf"?vSaf():M.tab==="pac"?vPac():M.tab==="agd"||M.tab==="bucle"?vDem():M.tab==="ia"?vIA():vRec();
+  return'<div class="pro mod-'+mod+'">'+nav+'<section class="pmain"><div class="ptitle"><h2>'+title+'</h2><span class="note">'+md.n+' · '+new Date().toLocaleDateString("ca",{weekday:"long",day:"numeric",month:"long"})+'</span></div>'+body+'</section></div>';
 }
 /* ---------- state, render, events ---------- */
-var S=gen(Date.now()),HS=location.hash;S.dismissed=[];
+var S=gen(Date.now()),HS=location.hash;S.dismissed=[];S.task={};S.msgs.forEach(function(m){if(m.status==="atès"&&Date.now()-m.t<36*H)m.doneT=m.t+3*H});
 var ui={screen:HS==="#innovamunt"||HS==="#familia"?"inn":HS==="#muntapp"?"mun":"home",inn:null,
-  mun:{me:4,tab:"ini",pat:null,from:"pac",prog:"Tots",q:"",bs:"nou",bt:"all"},
+  mun:{me:4,mod:"dem",tab:"agd",kf:"tot",kcol:"new",onlyMe:true,pat:null,from:"pac",prog:"Tots",q:"",bs:"nou",bt:"all"},
   dm:{day:0,cut:0,scen:0,abs:-1,open:-1,adj:{},tpl:{},log:[],undo:[]}};
 innReset(false);
 var app=document.getElementById("app");
@@ -1218,7 +1306,7 @@ function vHome(){
   '<div class="hero"><h1>Dues portes, un mateix equip</h1><p>InnovaMunt dona als pacients i a les famílies un accés directe al professional que els cal. MuntApp és el tauler de l’equip: consultes, evolució de cada pacient i previsió de la demanda.</p></div>'+
   '<div class="doors">'+
    '<button class="door inn" type="button" data-go="inn"><span class="ic">'+ico("heart",26)+'</span><b>InnovaMunt</b><span>Per a pacients i famílies. Pensat per al mòbil: trieu el pacient, què passa i a qui ho envieu.</span><em>Entrar com a família '+ico("chev",16)+'</em></button>'+
-   '<button class="door mun" type="button" data-go="mun"><span class="ic">'+ico("gauge",26)+'</span><b>MuntApp</b><span>Per a professionals. Tauler per programa (ICC, DM2, PCC, MACA, ATDOM), fitxa de cada pacient i bústia.</span><em>Entrar com a professional '+ico("chev",16)+'</em></button>'+
+   '<button class="door mun" type="button" data-go="mun"><span class="ic">'+ico("gauge",26)+'</span><b>MuntApp</b><span>Per a professionals. Dos mòduls: la previsió de la demanda amb agendes dinàmiques, i la resposta a InnovaMunt en una safata visual.</span><em>Entrar com a professional '+ico("chev",16)+'</em></button>'+
   '</div>'+
   '<div class="how"><div><span class="hn">1</span><b>La família notifica</b><span>Constants, un problema nou, un dubte o un tràmit.</span></div><div><span class="hn">2</span><b>Arriba directe</b><span>A infermeria, medicina, treball social o la UAC, sense centraleta.</span></div><div><span class="hn">3</span><b>L’equip actua</b><span>Prioritat automàtica i evolució del pacient en una sola pantalla.</span></div></div>'+
   '<p class="note">Prototip amb dades fictícies. No introduïu dades reals de pacients.</p></div>';
@@ -1234,7 +1322,7 @@ function numVar(k){return VARS[ui.inn.prof].concat([CUID]).filter(function(x){re
 document.querySelector(".top").addEventListener("click",function(e){if(e.target.closest("[data-go]"))go("home")});
 app.addEventListener("click",function(e){
   var b=e.target.closest("button");if(!b)return;var d=b.dataset,I=ui.inn,M=ui.mun;
-  if(d.go){if(d.go==="mun"){M.tab=ui.screen==="inn"?"ini":M.tab;M.pat=null}go(d.go);return}
+  if(d.go){if(d.go==="mun"){if(ui.screen==="inn"){M.mod="inn";M.tab="saf"}M.pat=null}go(d.go);return}
   /* wizard */
   if(d.back){back();return}
   if(d.prof){I.prof=d.prof;I.vals=null;nav("what");return}
@@ -1251,9 +1339,13 @@ app.addEventListener("click",function(e){
   if(b.id==="iSend"){innSend();return}
   if(d["new"]){innReset(true);render();window.scrollTo(0,0);return}
   /* professional */
-  if(d.pat){if(!M.pat)M.from=M.tab;M.pat=d.pat;render();window.scrollTo(0,0);return}
-  if(d.tab){M.tab=d.tab;M.pat=null;render();window.scrollTo(0,0);return}
-  if(d.prog){M.tab="pac";M.prog=d.prog;M.pat=null;render();window.scrollTo(0,0);return}
+  if(d.mod){M.mod=d.mod;M.tab=d.mod==="dem"?"agd":"saf";M.pat=null;render();window.scrollTo(0,0);return}
+  if(d.take){takeTask(d.take);return}
+  if(d.kf){M.kf=d.kf;render();return}
+  if(d.kcol){M.kcol=d.kcol;render();return}
+  if(d.pat){if(!M.pat)M.from=M.tab;M.mod="inn";M.pat=d.pat;render();window.scrollTo(0,0);return}
+  if(d.tab){M.tab=d.tab;M.mod=(d.tab==="agd"||d.tab==="bucle")?"dem":"inn";M.pat=null;render();window.scrollTo(0,0);return}
+  if(d.prog){M.tab="pac";M.mod="inn";M.prog=d.prog;M.pat=null;render();window.scrollTo(0,0);return}
   if(d.ack){ackMsg(d.ack);return}
   if(d.tf){M.f=d.tf;render();return}
   if(d.hist){M.hist=!M.hist;render();return}
@@ -1272,6 +1364,7 @@ app.addEventListener("click",function(e){
 app.addEventListener("change",function(e){
   var t=e.target,I=ui.inn;
   if(t.id==="iPhoto"&&t.files&&t.files[0]){try{if(I.photo)URL.revokeObjectURL(I.photo)}catch(x){}I.photo=URL.createObjectURL(t.files[0]);render()}
+  else if(t.id==="onlyMe"){ui.mun.onlyMe=t.checked;render()}
   else if(t.id==="meSel"){ui.mun.me=+t.value||0;render()}
   else if(t.id==="dAbs"){ui.dm.abs=+t.value;ui.dm.open=-1;render()}
 });

diff --git a/README.md b/README.md
@@ -14,9 +14,9 @@ Prototip web per a l’**EAP Adults La Muntanyeta** (Castelldefels): previsió d
 
 **MuntApp (web i mòbil)**
 
-| Avui | Fitxa del pacient | Previsió |
+| Previsió de la demanda | Safata InnovaMunt | Fitxa del pacient |
 | --- | --- | --- |
-| ![Avui](docs/muntapp-avui.png) | ![Pacient](docs/muntapp-pacient.png) | ![Previsió](docs/muntapp-previsio.png) |
+| ![Previsió](docs/muntapp-previsio.png) | ![Safata](docs/muntapp-safata.png) | ![Pacient](docs/muntapp-pacient.png) |
 
 ## Què és
 
@@ -38,22 +38,23 @@ Un assistent pas a pas, amb una pantalla per decisió i barra de progrés:
 
 ### MuntApp · equip (web i mòbil)
 
-- **Avui:** una sola pantalla per saber què passa. Tres blocs, cadascun amb el seu comptador i una sola acció per fila:
-  - **Peticions de les famílies** (consultes noves, ordenades per urgència) → «Resolt».
-  - **Alertes de constants** (valors fora de rang) → «Revisat».
-  - **Sense seguiment:** famílies que han deixat de registrar. L’app els envia un recordatori automàtic i, si en 24 h no responen, avisa l’equip que cal trucar → «He trucat».
-  - **Escalat dels signes d’alarma:** si la infermera referent no està disponible (domicilis, absència…), la petició arriba també a la seva **UBA mirall**; si ningú la «Assumeix» en 30 minuts, avisa tot el **microequip**. Els signes urgents avisen el microequip a l’instant. Quan algú l’assumeix, la resta deixa de rebre l’avís. El selector «Veure com a» mostra què li toca a cada infermera.
-  - **Abans de l’alerta:** pacients encara dins de rang però amb una tendència que s’hi acosta (glucosa que puja, freqüència cardíaca que puja, menja menys…), per fer una trucada preventiva.
-  - Tocar una fila obre la fitxa del pacient. Al peu, els pacients sense res pendent i l’historial de peticions ateses.
-- **Pacients:** filtre per programa i cerca. Cada fila mostra l’estat, el motiu, la tendència i l’adherència.
-- **Fitxa del pacient:** consultes pendents amb accions, gràfiques d’evolució de 28 dies amb els llindars d’alerta, calendari de registres, últims valors i cronologia d’incidències i consultes.
-- **Previsió (agendes dinàmiques):** visites i minuts lliures per UBA i microequip, semàfor de càrrega, escenaris i ordre de suport. A cada tall, MuntApp dona indicacions que es retroalimenten:
-  1. **Mig tall (14 h):** quina UBA de relleu obre forats i si la demanda creix respecte a la setmana anterior.
-  2. **Final del dia (19.45 h):** proposta per a la setmana vinent (moure controls de crònics estables al dia amb menys càrrega), amb el botó «Aplicar».
-  3. **Cada 2 setmanes:** recalibrar la plantilla de cada dia segons la tendència (menys crònics i més forats del mateix dia si creix; recuperar crònics si baixa).
-  4. **Cada mes:** tendència de 4 setmanes i error de previsió, per revisar-ho amb l’equip (PDCA).
-  Cada ajust aplicat mostra el seu efecte en la previsió i es pot desfer.
-- **Motius IA:** textos lliures de les famílies. Si un motiu es repeteix 3 vegades o més en 30 dies, l’assistent proposa afegir-lo com a opció o crear-ne una de nova. L’equip decideix.
+Dos mòduls separats:
+
+**1. Previsió de la demanda (eix principal del projecte)**
+
+- **Agendes del dia:** visites i minuts lliures per UBA i microequip, semàfor de càrrega, escenaris (pic de grip, UBA absent) i ordre de suport. Indicacions de cada tall:
+  - **Mig tall (14 h):** quina UBA de relleu obre forats i si la demanda creix respecte a la setmana anterior.
+  - **Final del dia (19.45 h):** proposta per a la setmana vinent (moure controls de crònics estables al dia amb menys càrrega), amb el botó «Aplicar».
+- **Bucle d’ajust:** cada 2 setmanes, recalibrar la plantilla de cada dia segons la tendència; cada mes, tendència de 4 setmanes i error de previsió per revisar-ho amb l’equip (PDCA). Cada ajust aplicat mostra el seu efecte i es pot desfer.
+
+**2. Resposta InnovaMunt**
+
+- **Safata:** totes les peticions i alertes en un sol flux visual de tres columnes, **Per assumir → En curs → Fet avui**, amb una barra de progrés del dia. Cada targeta té un color i una icona segons el tipus (signes d’alarma, consultes, constants, sense seguiment, risc creixent, tràmits) i un sol botó: «Assumir» i després «Resolt», «Revisat» o «He trucat». Per defecte, cada infermera veu només el que li toca.
+  - **Escalat dels signes d’alarma:** si la infermera referent no està disponible, la petició arriba també a la seva **UBA mirall**; si ningú l’assumeix en 30 minuts, avisa tot el **microequip**. Els signes urgents avisen el microequip a l’instant.
+  - **Sense seguiment:** l’app envia un recordatori automàtic a la família i, si en 24 h no respon, avisa que cal trucar.
+  - **Abans de l’alerta:** pacients encara dins de rang però amb una tendència que s’hi acosta, per fer una trucada preventiva.
+- **Pacients** i **fitxa del pacient:** evolució de 28 dies amb els llindars d’alerta, calendari de registres i cronologia d’incidències i consultes.
+- **Motius IA:** si un motiu escrit amb text lliure es repeteix 3 vegades o més en 30 dies, l’assistent proposa afegir-lo com a opció. L’equip decideix.
 - **Recerca:** indicadors dels estudis de l’equip i seguiment per infermera referent.
 
 ## InnovaMunt, La Meva Salut i eOSS
